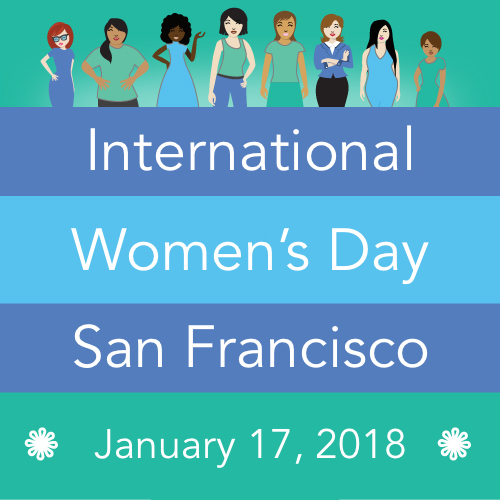
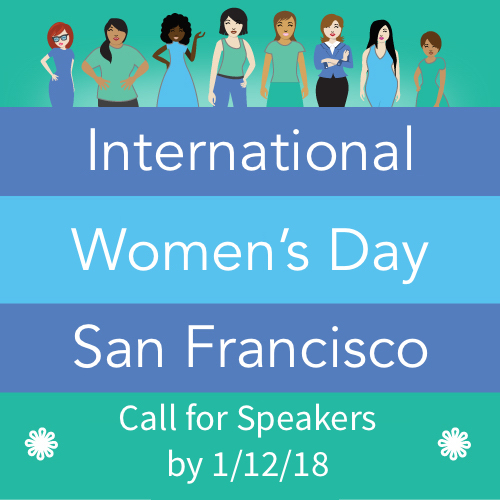
made several minor changes

Changed region(s): [[0.18, 0.81, 0.81, 0.99]]

diff --git a/static/css/styling.css b/static/css/styling.css
@@ -1,16 +1,10 @@
+/* Base */
 body {
     font-family: "Open Sans Light", serif;
     color: rgb(102,102,102);
     background-color: #DBF3FD;
-
 }
 
-.background-img {
-    background-image: url("https://i0.wp.com/picjumbo.com/wp-content/uploads/HNCK3940.jpg?w=2210&quality=50");
-    background-size: 100%;
-    background-repeat: no-repeat;
-    padding-bottom: 5%
-}
 
 .navbar {
     background-color: #f5f5f5;
@@ -39,8 +33,7 @@ body {
 } 
 
 .container{
-	height: auto;
-	
+	height: auto;	
 }
 
 .footer {
@@ -54,6 +47,14 @@ body {
 .row {
     margin-right: 0;
     margin-left: 0;
+}
+
+/* Homepage */
+.background-img {
+    background-image: url("https://i0.wp.com/picjumbo.com/wp-content/uploads/HNCK3940.jpg?w=2210&quality=50");
+    background-size: 100%;
+    background-repeat: no-repeat;
+    padding-bottom: 5%
 }
 
 .img-transparent {
@@ -77,6 +78,7 @@ body {
     margin-top: -15%;
 }
 
+/* Speaker CSS */
 .support-card{
     margin-top: 5%;
     margin-bottom: 1%;
@@ -134,6 +136,7 @@ h1 {
     padding-left: 12%;
 }
 
+/* Scheudle CSS */
 .schedule-background{
     background-image: url("/schedule.png");
     background-size: 100%;
@@ -144,9 +147,11 @@ h1 {
 
 .schedule-session{
     border-radius: 20px;
-    border: .75px solid #DBF3FD;
+    border: 1.75px solid #DBF3FD;
     color:black;
+    font-size: 1.05rem;
 }
+
 
 .dark-blue {
     background-color: rgb(66,133,244);
@@ -178,12 +183,34 @@ h1 {
 
 .btn-sm{
     margin-bottom: 1%;
+    margin-top: 1%;
 }
 
 .padding-b{
     padding-top: 1%;
 }
 
+.row-padding{
+    margin-bottom: 0.75%;
+}
+
+.schedule-title{
+    font-weight: bold;
+}
+
 .schedule-background h1{
     color:white;
+}
+
+.fa-calendar-plus-o:before{
+    color: rgb(102,102,102);
+}
+
+/* Community */
+
+.background-img-community {
+    background-image: url("https://images.pexels.com/photos/672916/pexels-photo-672916.jpeg?w=940&h=650&dpr=2&auto=compress&cs=tinysrgb");
+    background-size: 100%;
+    background-repeat: no-repeat;
+    padding-bottom: 5%
 }

diff --git a/templates/homepage.html b/templates/homepage.html
@@ -20,13 +20,12 @@
           <p>
             The event will be in brilliant San Fransisco. 
           </p>
-          
           <p class="center-text card-text ">
             Save the date March 17, 2018
             <a target="_blank" href="https://www.google.com/calendar/render?action=TEMPLATE&text=Tentative+IWD&details=Celebrating+Women+in+Tech%3A+Come+learn+from+amazing+women+in+tech%2C+be+inspired%2C+and+connect+with+others+in+San+Francisco.%0ACheck+for+updated+information+at%3A+https%3A%2F%2Fwatchful-force-155207.appspot.com%2F&dates=20180317T160000Z%2F20180317T230000Z"><i class="fa fa-calendar" aria-hidden="true"></i></a>
           </p>
           <p class="center-text card-text">
-            Want to speak at our event? Summit your Speaking Proposal by Sat. January 12, 2018
+            Want to speak at our event? Submit your Speaking Proposal by Sat. January 12, 2018
           </p>
           <a target="_blank" href="http://bit.ly/iwd17-speakercall">
             <button type="button" class="btn btn-primary btn-lg" >Call for Papers</button>

diff --git a/templates/speakers.html b/templates/speakers.html
@@ -21,7 +21,7 @@
       <div class="card-deck">
 
       {% for speaker in speaker_data %}
-      <div class="col-md-6 col-lg-4 col-xl-3">
+      <div class="col-md-6 col-lg-4">
         <div class="card center-text">
           <img class="card-img-top speaker-photo" src= "{{ speaker.personal_info["photo"] }}" alt="{{ speaker.first_name }} {{ speaker.last_name }}">
           <div class="card-block">

diff --git a/model.py b/model.py
@@ -1,4 +1,5 @@
 """Speaker & Talk Classes"""
+import datetime
 
 
 class Speaker(object):
@@ -33,8 +34,8 @@ class Speaker(object):
                     "photo": photo,       
                     }
 
-    def add_talk(self, title=None, description=None, track_name=None, time=None):
-        _talk = Talk(title=title, description=description, track_name=track_name, time=time, speaker=self)
+    def add_talk(self, title=None, description=None, track_name=None, time=None, date=None):
+        _talk = Talk(title=title, description=description, track_name=track_name, time=time, date=date, speaker=self)
         self.talk = _talk
 
     def __repr__(self):
@@ -49,12 +50,21 @@ class Speaker(object):
 class Talk(object):
     """This is a Speaker's Session"""
 
-    def __init__(self, title, description, track_name=None, time=None, speaker=None):
+    def __init__(self, title, description, track_name=None, time=None, speaker=None, date=None, session_length=None):
         self.title = title.capitalize()
         self.description = description
+
+        if date is not None and time is not None:
+            start = datetime.datetime.strptime("{} {}".format(date, time), '%m/%d/%Y %I:%M%p')
+            end = start + datetime.timedelta(minutes=45)
+            calendar_datetime = create_calendar_datetime(start, end)
+
+        else: 
+            calendar_datetime = None
         self.slot = {
                     "track_name": track_name,
                     "time": time,
+                    "calendar_datetime": calendar_datetime
                     }
         self.speaker = speaker
 
@@ -64,6 +74,43 @@ class Talk(object):
         return """<Talk | {}>""".format(
                                 self.title,
                                 )
+
+
+def create_calendar_datetime(start, end):
+    """Returns RFC 3339 format for Google calendar
+
+        >>> date = "03/17/2018"
+        >>> time = "1:00pm"
+        >>> start = datetime.datetime.strptime("{} {}".format(date, time), '%m/%d/%Y %I:%M%p')
+        >>> end = start + datetime.timedelta(minutes=45)
+        >>> print create_calendar_datetime(start, end)
+        20180317T130000%2F20180317T134500
+
+    """
+    start = start.isoformat('T')
+    # removing the '-' and ':'
+    part_1 = start[:11].split('-')
+    part_2 = start[11:].split(':')
+    #bring data back together
+    part_1 = "".join(part_1)
+    part_2 = "".join(part_2)
+    #join the two pieces together
+    start = part_1 + part_2
+
+    end = end.isoformat('T')
+    # removing the '-' and ':'
+    part_1 = end[:11].split('-')
+    part_2 = end[11:].split(':')
+    #bring data back together
+    part_1 = "".join(part_1)
+    part_2 = "".join(part_2)
+    #join the two pieces together
+    end = part_1 + part_2
+
+    # bring the start & end together!
+    calendar_datetime = "{}%2F{}".format(start, end)
+
+    return calendar_datetime
 
 ###################### Speaker Example ##########################
 
